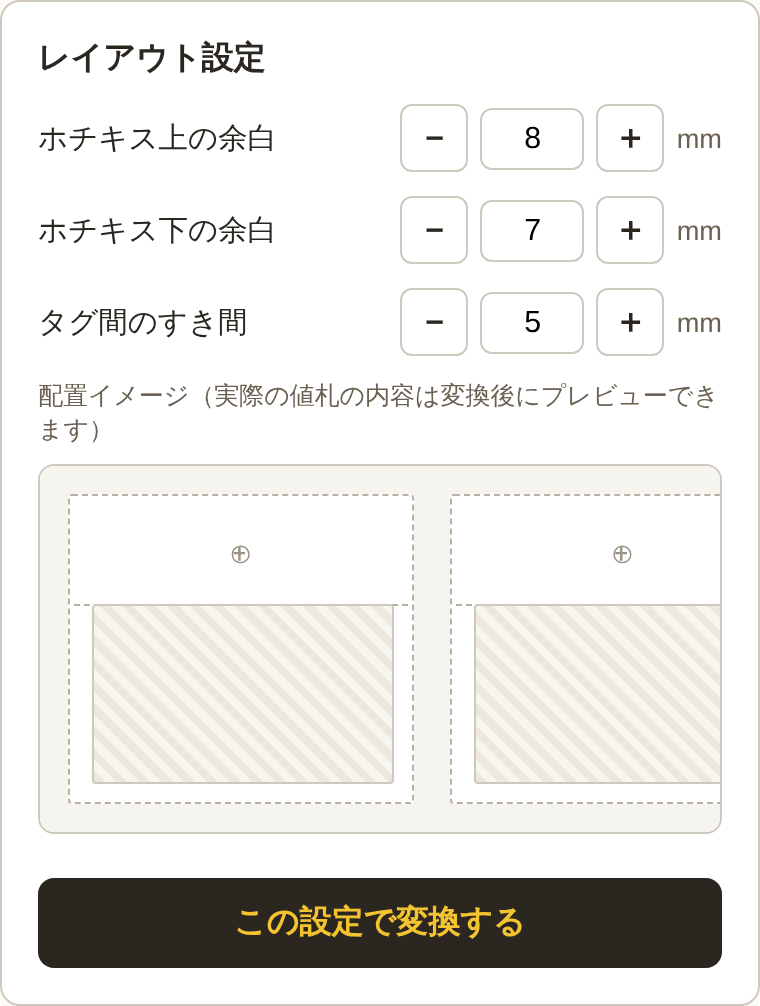
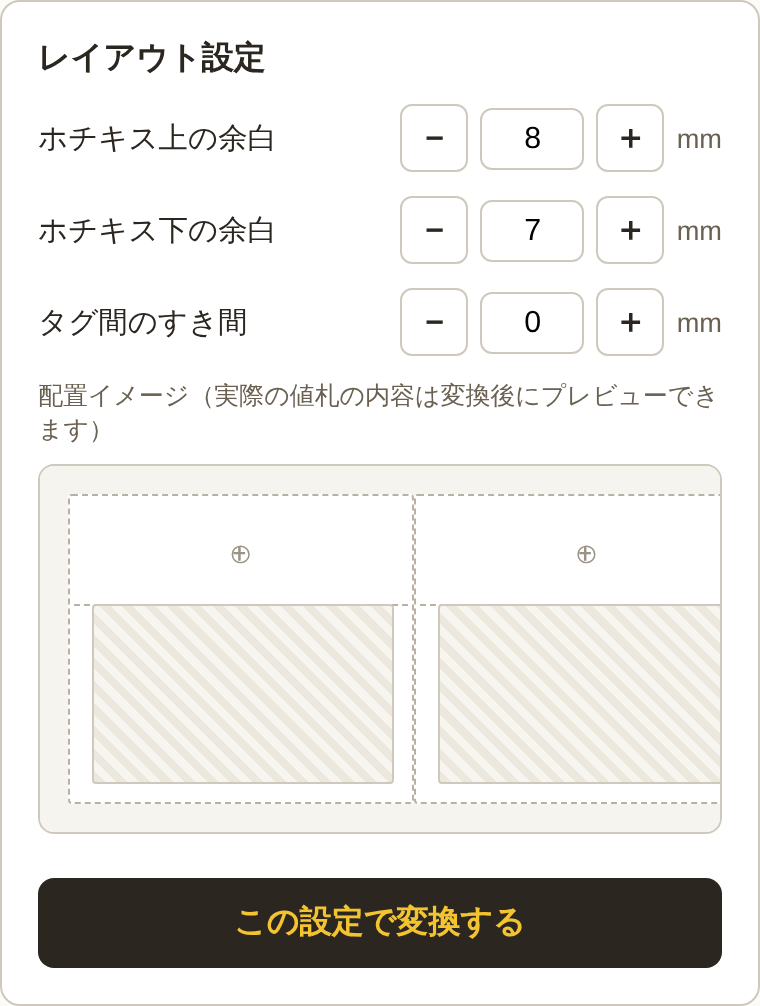
Default tag gap to 0mm; trim and fix the usage guide images
- Changed "タグ間のすき間" default from 5mm to 0mm.
- Removed the double border on guide screenshots: .guide-img was
  adding its own border/radius on top of the UI element's own
  border already baked into the screenshot, doubling every edge.
- Capped guide images at max-width 320px - they didn't need to run
  the full column width to be readable.
- Step 2's screenshot showed all 6 detected cards; trimmed to 2, and
  gave one of them a count of 3 to actually show the stepper in use.
- Step 4's preview screenshot was a whole mostly-blank A4 page;
  cropped to just the populated rows.
- Removed step 5's screenshot entirely - a button-shaped image right
  next to the real button read as a second, confusing button.
- Re-captured step 3's screenshot so it reflects the new 0mm gap
  default instead of the old 5mm one.

Claude-Session: https://claude.ai/code/session_012s268LnT3PNZVReuPNXAwz

Changed region(s): [[0.575, 0.5855, 0.6355, 0.8012], [0.7566, 0.5239, 0.7868, 0.5547], [0.6961, 0.3082, 0.7263, 0.339]]

diff --git a/index.html b/index.html
@@ -4,7 +4,7 @@
 <meta charset="UTF-8">
 <meta name="viewport" content="width=device-width, initial-scale=1.0">
 <title>ハコイチ値札加工ツール | 鉢-bit</title>
-<link rel="stylesheet" href="style.css?v=8">
+<link rel="stylesheet" href="style.css?v=9">
 </head>
 <body>
   <main class="wrap">
@@ -49,7 +49,7 @@
         <span>タグ間のすき間</span>
         <span class="stepper">
           <button type="button" class="step-btn" data-target="gapMm" data-step="-1" aria-label="1mm減らす">－</button>
-          <input type="number" id="gapMm" value="5" min="0" max="20" step="1">
+          <input type="number" id="gapMm" value="0" min="0" max="20" step="1">
           <button type="button" class="step-btn" data-target="gapMm" data-step="1" aria-label="1mm増やす">＋</button>
           <span class="unit">mm</span>
         </span>
@@ -75,6 +75,6 @@
   </main>
 
 <script src="https://cdn.jsdelivr.net/npm/pdf-lib@1.17.1/dist/pdf-lib.min.js"></script>
-<script type="module" src="app.js?v=8"></script>
+<script type="module" src="app.js?v=9"></script>
 </body>
 </html>

diff --git a/usage.html b/usage.html
@@ -4,7 +4,7 @@
 <meta charset="UTF-8">
 <meta name="viewport" content="width=device-width, initial-scale=1.0">
 <title>使い方ガイド | ハコイチ値札加工ツール</title>
-<link rel="stylesheet" href="style.css?v=8">
+<link rel="stylesheet" href="style.css?v=9">
 </head>
 <body>
   <main class="wrap">
@@ -53,7 +53,6 @@
         <div class="guide-step-body">
           <h2>ダウンロードして印刷する</h2>
           <p>「加工済みPDFをダウンロード」ボタンでPDFを保存し、いつも通り印刷してください。あとは⊕マークのところをホチキスで留めれば完成です。</p>
-          <img class="guide-img" src="usage-images/step5-download.png" alt="ダウンロードボタンのスクリーンショット">
         </div>
       </div>
     </div>

diff --git a/app.js b/app.js
@@ -237,7 +237,7 @@ async function process() {
 
   const marginAboveMm = numOr(marginAboveInput.value, 8);
   const marginBelowMm = numOr(marginBelowInput.value, 7);
-  const gapMm = numOr(gapMmInput.value, 5);
+  const gapMm = numOr(gapMmInput.value, 0);
 
   const totalCards = allCardsByPage.reduce(
     (s, p) => s + p.cards.reduce((s2, c) => s2 + Math.max(0, Math.round(numOr(document.getElementById(c.countInputId).value, 1))), 0),

diff --git a/style.css b/style.css
@@ -302,9 +302,11 @@ footer {
   line-height: 1.7;
 }
 .guide-img {
+  /* screenshots already have their own border baked in (they're crops of
+     already-bordered UI elements) - adding another one here just doubles
+     the line at every edge */
   display: block;
   width: 100%;
+  max-width: 320px;
   margin-top: 12px;
-  border: 1px solid var(--gray-line);
-  border-radius: 8px;
 }
